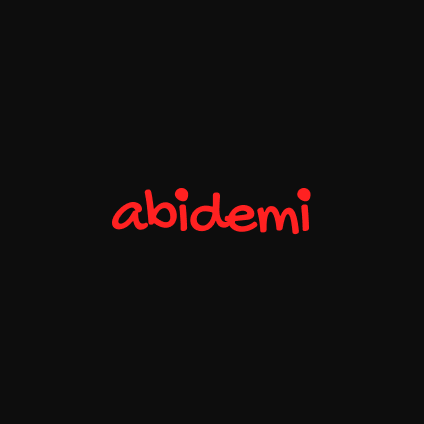
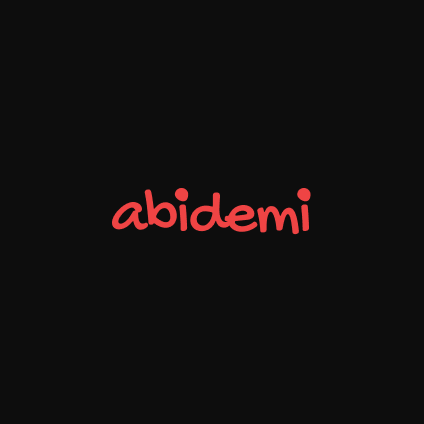
seo changes

Changed region(s): [[0.2453, 0.4292, 0.7358, 0.5519]]

diff --git a/pages/index.tsx b/pages/index.tsx
@@ -21,7 +21,7 @@ const Home: NextPage = () => {
         <link rel='icon' href='/favicon.ico' />
         <link href='https://abidemiharry.vercel.app/' rel='canonical' />
         <meta name='theme-color' content='#10101A' />
-        <meta name='apple-mobile-web-app-status-bar-style' content='#FF2121' />
+        <meta name='apple-mobile-web-app-status-bar-style' content='#ef4444' />
         <meta property='og:type' content='website' />
         <meta
           property='og:title'
